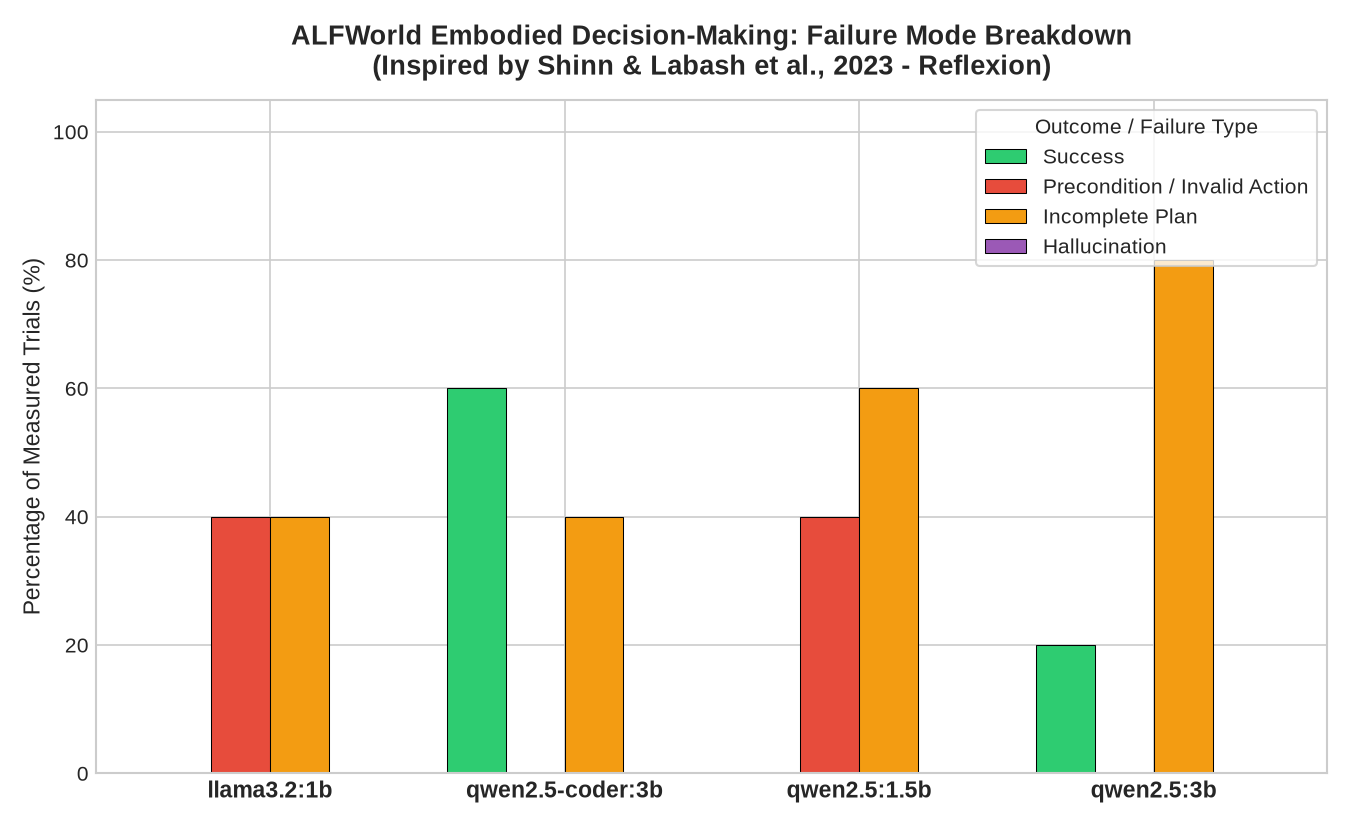
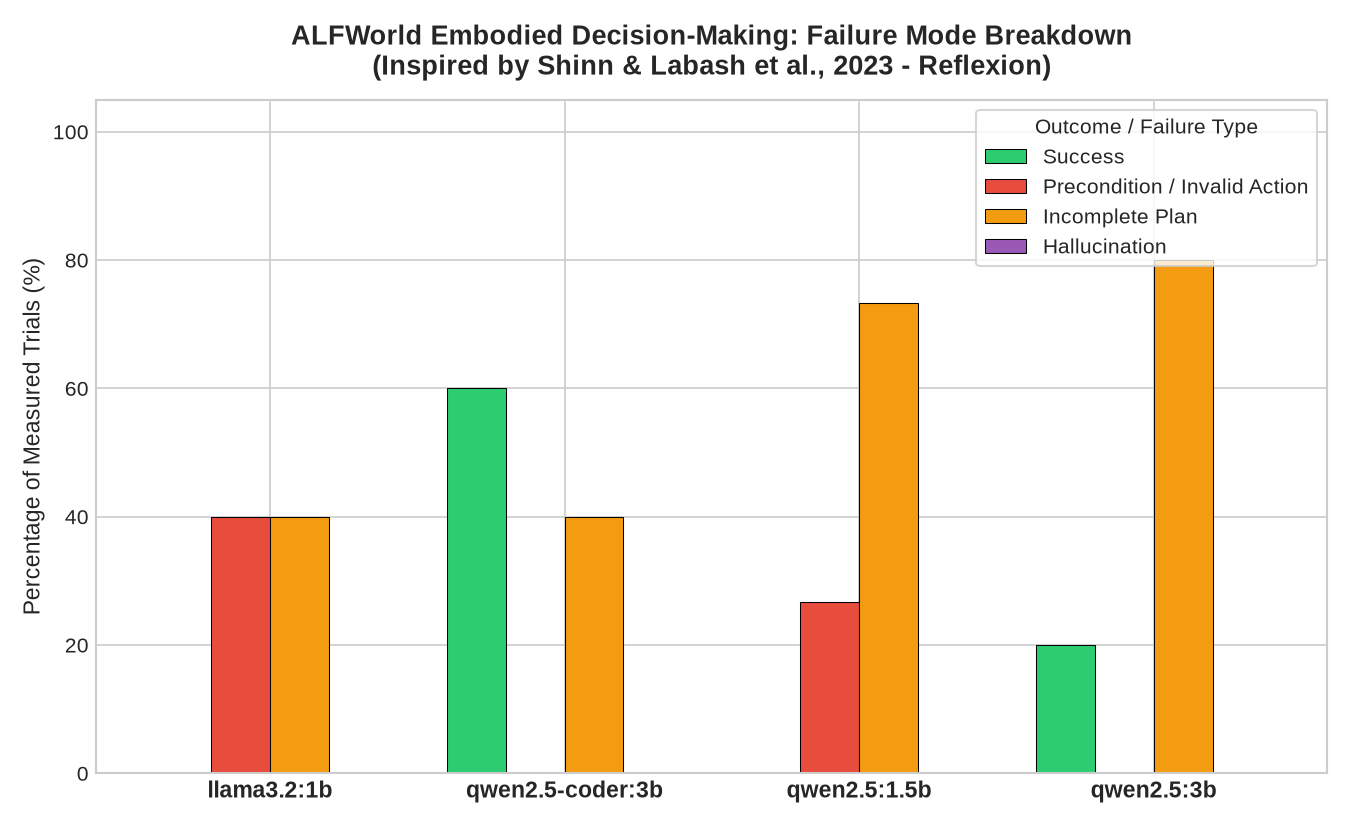
feat: record realme 9 Pro+ on-device benchmark results and add hardware efficiency comparison matrix

Changed region(s): [[0.5911, 0.6061, 0.6533, 0.7576], [0.6222, 0.3636, 0.6844, 0.4848]]

diff --git a/web/index.html b/web/index.html
@@ -401,6 +401,46 @@
             </table>
         </div>
 
+        <!-- Hardware Comparison: Edge Mobile vs Laptop GPU -->
+        <div class="section-title">
+            <span>📱 Edge Mobile (Dimensity 920) vs Laptop GPU (GTX 1650) Empirical Frontier</span>
+        </div>
+        <div class="table-container">
+            <table>
+                <thead>
+                    <tr>
+                        <th>Platform & Architecture</th>
+                        <th>Execution Engine</th>
+                        <th>Compute Device</th>
+                        <th>Prompt Speed</th>
+                        <th>Decode Speed</th>
+                        <th>Power Consumption</th>
+                        <th>Energy Efficiency</th>
+                    </tr>
+                </thead>
+                <tbody>
+                    <tr>
+                        <td class="model-name">NVIDIA GTX 1650 (Laptop)</td>
+                        <td>Ollama v0.34.4 (CUDA)</td>
+                        <td>Dedicated 4GB GDDR6</td>
+                        <td><span class="pill pill-green">354.2 TPS</span></td>
+                        <td><span class="pill pill-green">46.41 TPS</span></td>
+                        <td>~50 Watts</td>
+                        <td>0.92 TPS / Watt</td>
+                    </tr>
+                    <tr>
+                        <td class="model-name">realme 9 Pro+ (Dimensity 920)</td>
+                        <td>llama.cpp ARM64 CLI (6T)</td>
+                        <td>2x A78 + 4x A55 CPU</td>
+                        <td><span class="pill pill-blue">16.10 TPS</span></td>
+                        <td><span class="pill pill-blue">10.60 TPS</span></td>
+                        <td><span class="pill pill-green">~4 Watts</span></td>
+                        <td><span class="pill pill-green"><strong>2.65 TPS / Watt (2.8x)</strong></span></td>
+                    </tr>
+                </tbody>
+            </table>
+        </div>
+
         <!-- Visual Analysis Gallery -->
         <div class="section-title">
             <span>📊 Publication Visual Analysis Gallery</span>
